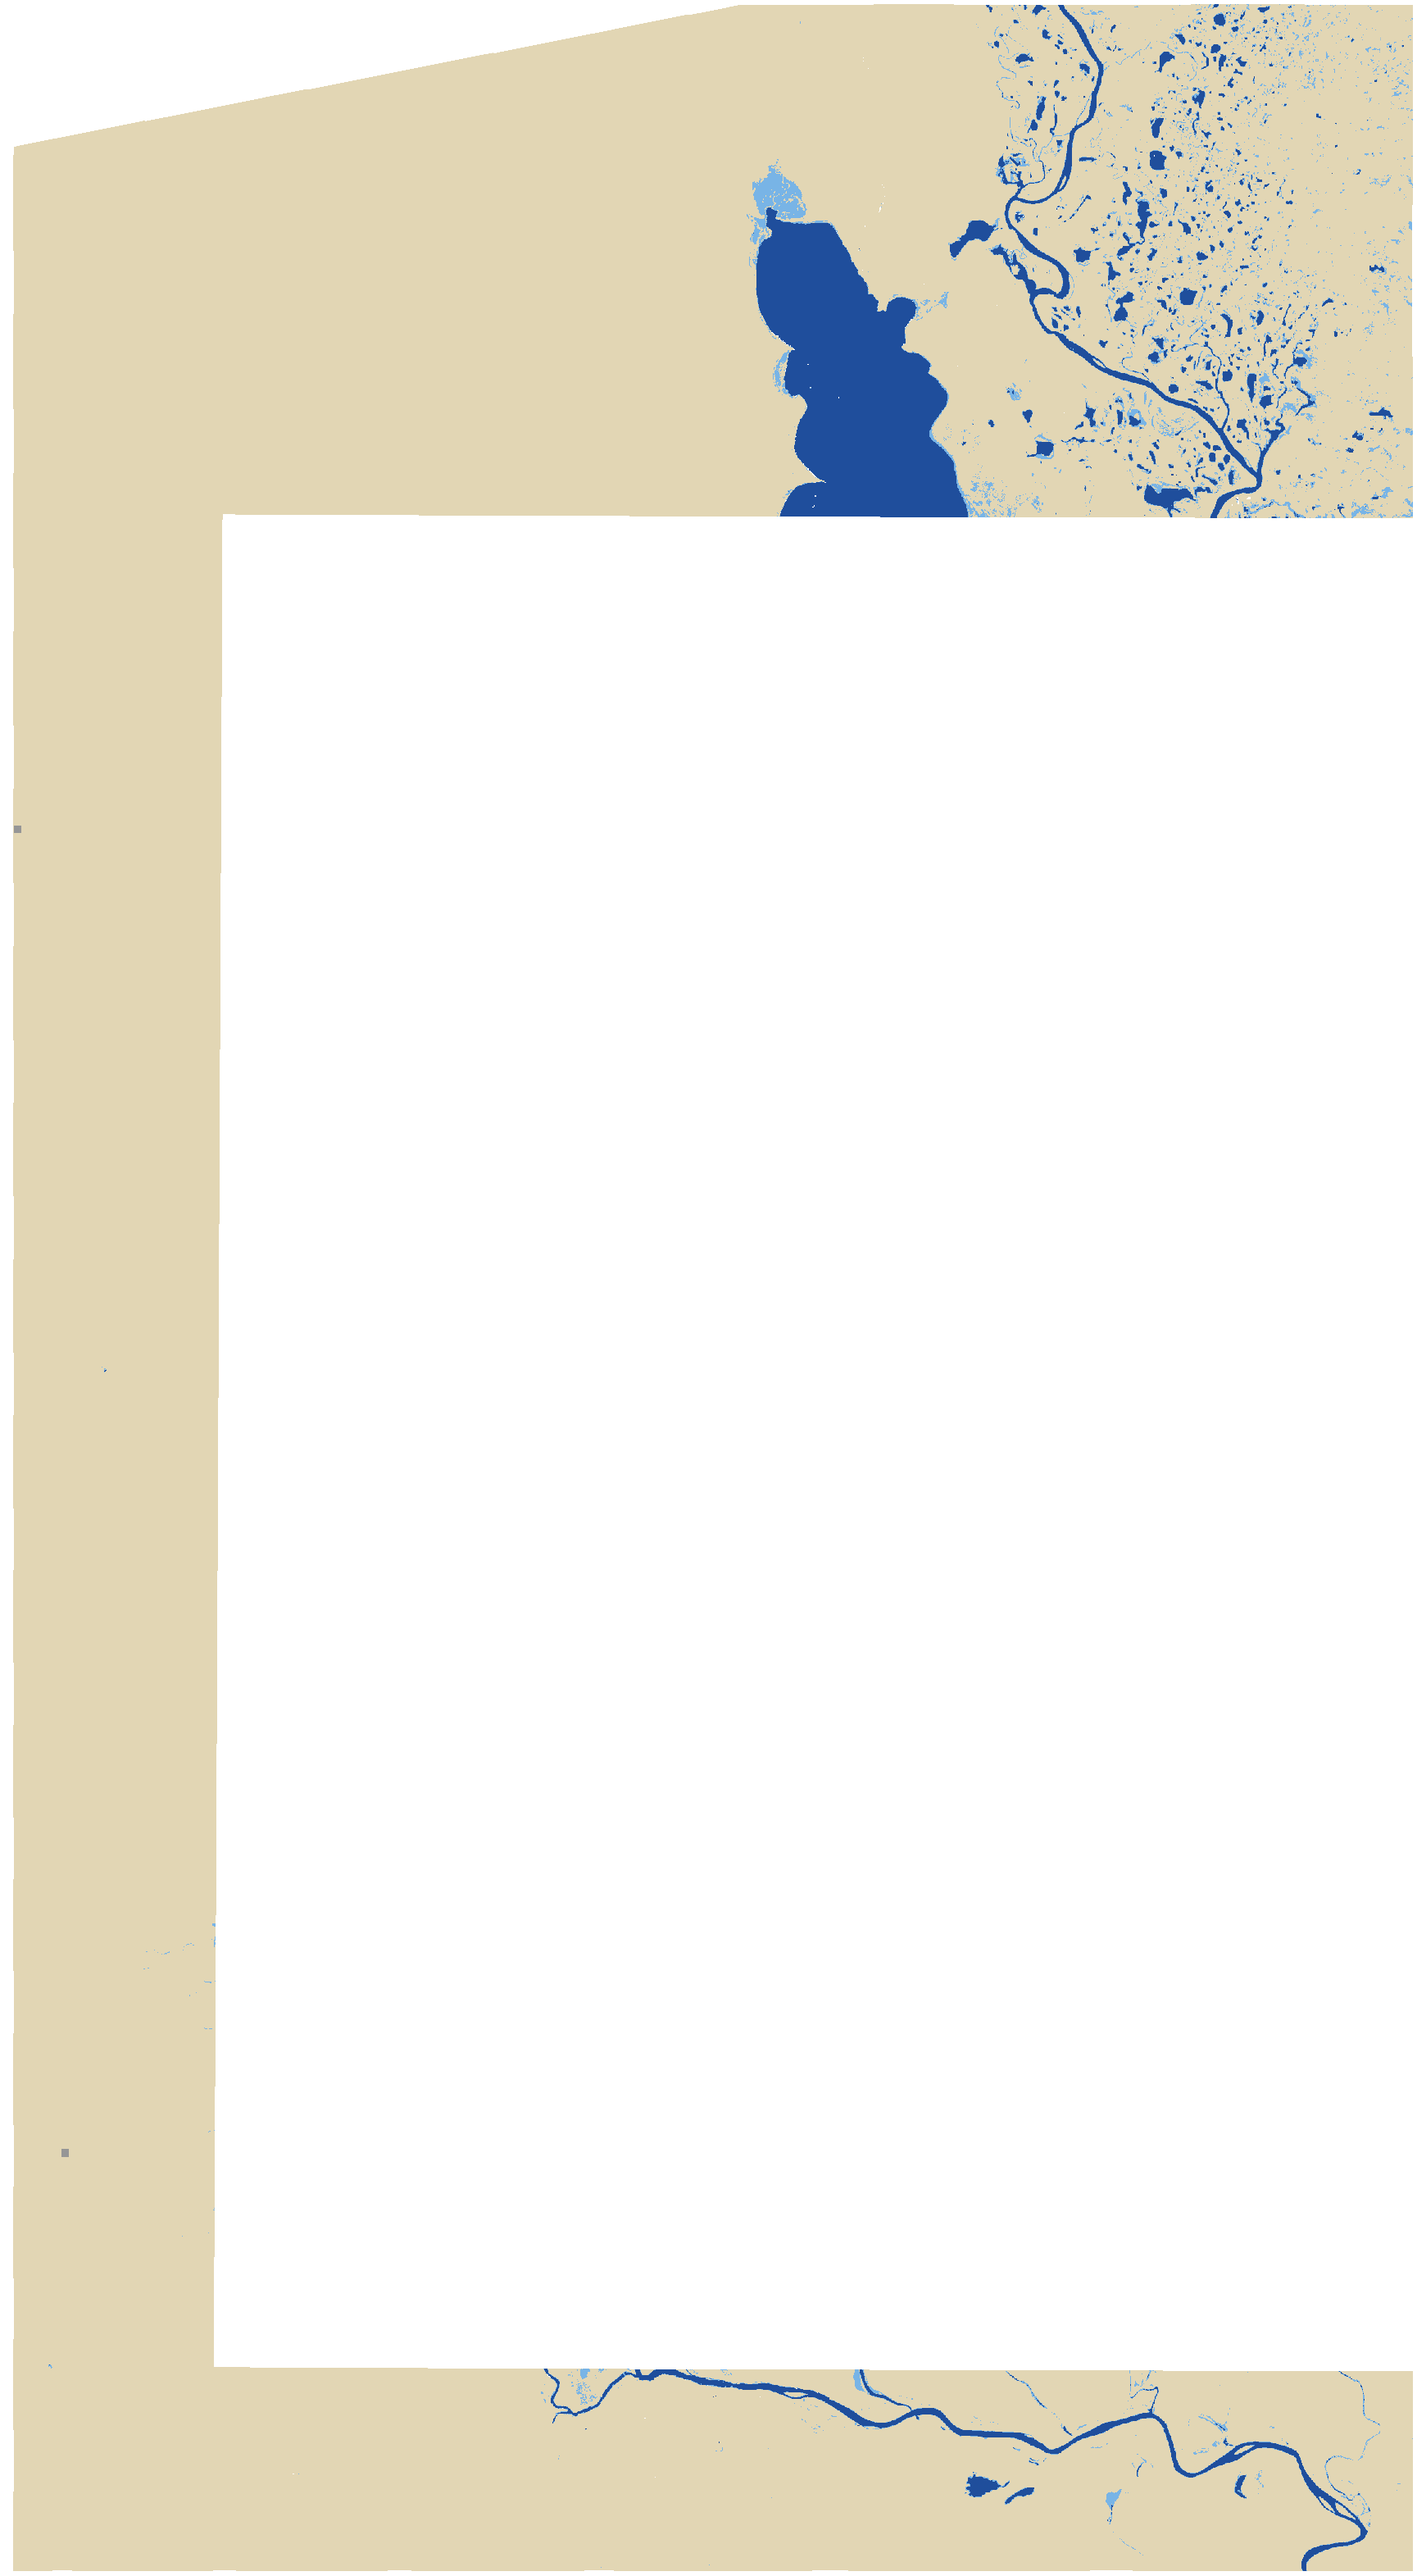
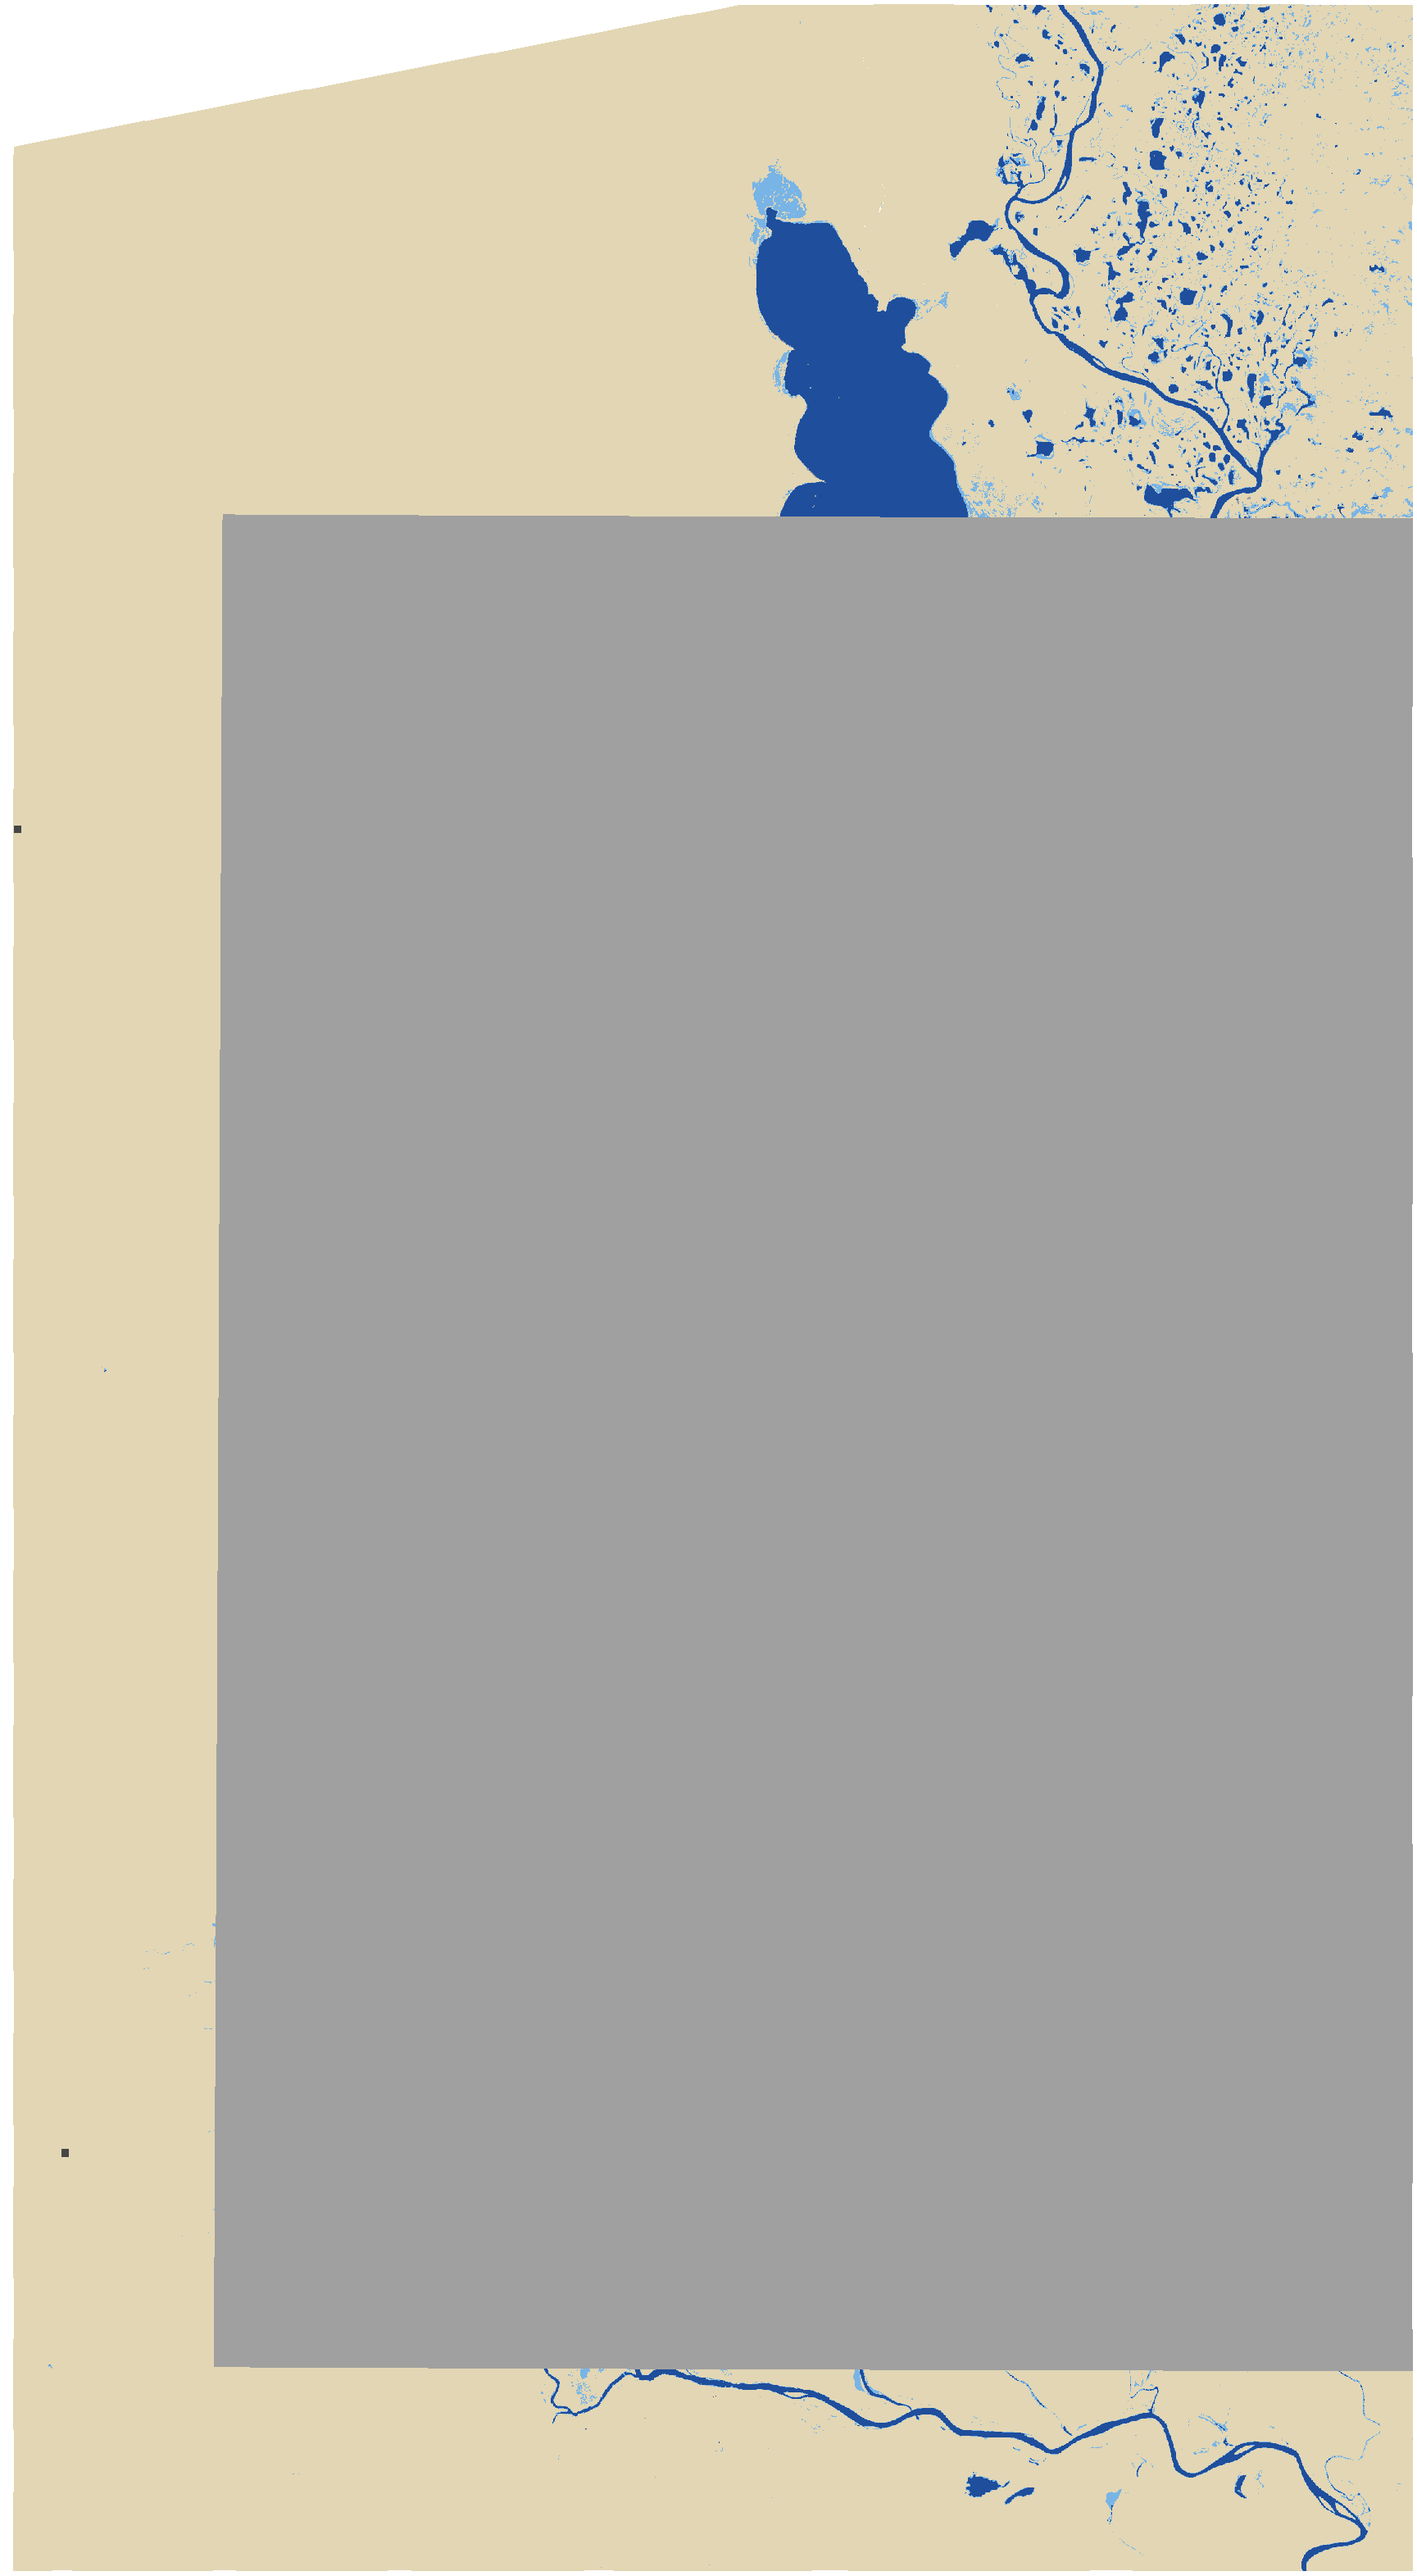
Coverage on one floodplain mask; no cloud/fire claims; pages concurrency

diff --git a/web/index.html b/web/index.html
@@ -83,10 +83,10 @@
 </section>
 
 <section>
-  <h2>Radar sees what optics cannot</h2>
+  <h2 id="sepTitle">Full coverage on a fixed schedule</h2>
   <p class="lead" id="cloudLead">Drag the handle. Left: NISAR radar. Right: OPERA DSWx-HLS optical water map.</p>
   <div class="controls">
-    <label><input type="radio" name="sw" value="sep" checked> Fire season: radar 3 Sep vs optical 2 Sep</label>
+    <label><input type="radio" name="sw" value="sep" checked> Radar 3 Sep vs optical 2 Sep</label>
     <label><input type="radio" name="sw" value="ba"> Radar: 17 Jul vs 21 Oct</label>
   </div>
   <div class="swipe-wrap">
@@ -137,8 +137,8 @@ const LEG = {
   change: [["#00c8ff","open water both dates"],["#ff7f00","open water lost"],["#ff00c8","open water gained"],
            ["rgba(255,255,255,.5)","analysed, no open water"]],
   composite: [["#ff0000","HH"],["#00ff00","HV"],["#0000ff","HH − HV"]],
-  dswx: [["#e2d6b4","not water"],["#1f4e9c","open water"],["#78b4e6","partial surface water"],["#969696","cloud — optical blind"],
-         ["rgba(255,255,255,.85)","not imaged by the optical satellite that day"]],
+  dswx: [["#e2d6b4","not water"],["#1f4e9c","open water"],["#78b4e6","partial surface water"],
+         ["#a0a0a0","not imaged by the optical satellite that day"]],
   hvgrey: [["#000","water (smooth, dark)"],["#fff","land / vegetation (bright)"]],
 };
 function legend(el, key){
@@ -177,6 +177,9 @@ const dmy = s => new Date(s+"T12:00:00Z").toLocaleDateString("en-GB",{day:"numer
 Promise.all([fetch("data/data.json").then(r=>r.json()), fetch("data/layers.json").then(r=>r.json())])
 .then(([D, LY]) => {
   const M = D.metrics;
+  $("#sepTitle").textContent = "Full coverage on a fixed schedule";
+  const REST = (M.sep_cloud_pct ?? 0) < 1 ? "the rest was not imaged that day"
+             : `${M.sep_not_acquired_pct}% not imaged that day, ${M.sep_cloud_pct}% cloud or shadow`;
   // ---------- cards
   const cards = [
     [`${fmt(M.precision[0])}–${fmt(M.precision[1])}`, "precision of NISAR open water",
@@ -185,8 +188,8 @@ Promise.all([fetch("data/data.json").then(r=>r.json()), fetch("data/layers.json"
      `River channel and permanent lagoons held their extent while Ladário fell from ${M.stage_first} to ${M.stage_last} cm (r = ${fmt(M.r_open)}).`],
     [`${M.op_first} → ${M.op_last} km²`, "shallow, vegetated water declined",
      `Open + partial water (DSWx) tracks the river: r = ${fmt(M.r_open_partial)}, p = ${fmt(M.p_open_partial,3)}. The water that left is mostly shallow, vegetated water.`],
-    [`${M.sep_clear_pct}% vs 100%`, "usable floodplain, optical vs radar",
-     `On ${dmy(D.sep_dswx)} optics had a usable view of only ${M.sep_clear_pct}% of the floodplain (${M.sep_cloud_pct}% cloud or shadow, ${M.sep_not_acquired_pct}% not imaged that day); NISAR (${dmy(D.sep_nisar)}) saw all of it.`],
+    [`${M.nisar_min_pct >= 100 ? "100%" : "≥" + M.nisar_min_pct + "%"} every 12 days`, "full coverage on a fixed schedule",
+     `NISAR imaged ${M.nisar_min_pct >= 100 ? "the whole floodplain" : "at least " + M.nisar_min_pct + "% of the floodplain"} on all ${M.nisar_n_dates} dates; on ${dmy(D.sep_dswx)} the optical product covered ${M.sep_clear_cov_pct}% (${REST}).`],
   ];
   $("#cards").innerHTML = cards.map(([k,t,p]) => `<div class="card"><div class="k">${k}</div><div class="t">${t}</div><p>${p}</p></div>`).join("");
 
@@ -231,8 +234,9 @@ Promise.all([fetch("data/data.json").then(r=>r.json()), fetch("data/layers.json"
       const tmp = document.createElement("div"); legend(tmp, "hvgrey");
       $("#leg2").innerHTML = "<span><b>Left:</b></span>" + tmp.innerHTML;
       legend(tmp, "dswx");
+      if ((M.sep_cloud_pct ?? 0) > 0) tmp.insertAdjacentHTML("beforeend", '<span><span class="sw" style="background:#464646"></span>cloud / shadow</span>');
       $("#leg2").insertAdjacentHTML("beforeend", "<span style='margin-left:12px'><b>Right:</b></span>" + tmp.innerHTML);
-      $("#cloudLead").textContent = `On ${dmy(D.sep_dswx)}, in the fire season, optical sensors had a usable view of only ${M.sep_clear_pct}% of the floodplain: ${M.sep_cloud_pct}% was under cloud or shadow and ${M.sep_not_acquired_pct}% was not imaged that day. NISAR, one day later, imaged all of it. Drag the handle.`;
+      $("#cloudLead").textContent = `On ${dmy(D.sep_dswx)} the optical product covered ${M.sep_clear_cov_pct}% of the floodplain (${REST}). NISAR imaged ${M.nisar_sep_pct}% of it on ${dmy(D.sep_nisar)}, on its fixed 12-day schedule. Drag the handle.`;
     } else {
       l = "composite_" + D.before.replaceAll("-",""); r = "composite_" + D.after.replaceAll("-","");
       tl = `NISAR · ${dmy(D.before)}`; tr = `NISAR · ${dmy(D.after)}`;

diff --git a/scripts/03_export_web.py b/scripts/03_export_web.py
@@ -109,20 +109,34 @@ def main():
     w = dswx.mosaic(sorted(glob.glob(str(ROOT / f"data/raw/opera_dswx/*_{SEP_D}T*_B01_WTR.tif"))), grid)
     hh3, _, _, _ = load(SEP_N)
     foot = np.isfinite(hh3)
-    # optical coverage on the analysed floodplain: clear / cloud-shadow / not acquired (fill)
+    # ONE floodplain mask for both sensors: masks (non-urban, <=135 m) inside the study area
+    # (study area = pixels valid in at least one NISAR date)
+    any_valid = np.zeros(hh3.shape, bool)
+    nisar_cov = {}
+    gfiles = sorted(glob.glob(str(proc / "gcov_*_40m_db.tif")))
+    stacks = {}
+    for f in gfiles:
+        with rasterio.open(f) as r:
+            stacks[Path(f).name.split("_")[1]] = np.isfinite(r.read(2))
+            any_valid |= stacks[Path(f).name.split("_")[1]]
     with rasterio.open(proc / "masks_40m.tif") as m:
-        plain = (m.read(1) == 0) & (m.read(2) == 0) & np.isfinite(m.read(3)) & foot
+        plain = (m.read(1) == 0) & (m.read(2) == 0) & np.isfinite(m.read(3)) & any_valid
     n = plain.sum()
+    for d, v in stacks.items():
+        nisar_cov[d] = 100 * (v & plain).sum() / n
     cov = dict(date=SEP_D, clear_pct=100 * np.isin(w[plain], (0, 1, 2)).sum() / n,
                cloud_pct=100 * np.isin(w[plain], (252, 253)).sum() / n,
-               not_acquired_pct=100 * np.isin(w[plain], (254, 255)).sum() / n)
+               not_acquired_pct=100 * np.isin(w[plain], (254, 255)).sum() / n,
+               nisar_sep_pct=nisar_cov[SEP_N], nisar_min_pct=min(nisar_cov.values()),
+               nisar_max_pct=max(nisar_cov.values()), nisar_n_dates=len(nisar_cov))
+    print("      NISAR coverage of floodplain by date: " + " ".join(f"{d[4:]}:{v:.0f}%" for d, v in nisar_cov.items()))
     pd.DataFrame([cov]).to_csv(ROOT / "outputs/tables/sep_optical_coverage.csv", index=False, float_format="%.1f")
     print(f"      DSWx {SEP_D} on floodplain: clear {cov['clear_pct']:.0f}% | cloud/shadow {cov['cloud_pct']:.0f}% | "
-          f"not acquired that day {cov['not_acquired_pct']:.0f}%")
+          f"not acquired that day {cov['not_acquired_pct']:.0f}% | NISAR {SEP_N}: {cov['nisar_sep_pct']:.0f}%")
     w[~foot] = 0                                  # outside NISAR footprint -> transparent (code 0 handled below)
     rgba = palette_rgba(w, {0: (226, 214, 180, 255), 1: (31, 78, 156, 255), 2: (120, 180, 230, 255),
-                            253: (150, 150, 150, 255), 252: (150, 150, 150, 255),
-                            255: (255, 255, 255, 200), 254: (255, 255, 255, 200)})
+                            253: (70, 70, 70, 255), 252: (70, 70, 70, 255),
+                            255: (160, 160, 160, 255), 254: (160, 160, 160, 255)})
     rgba[~foot] = 0
     save(f"dswx_{SEP_D}", rgba, tr, crs, layers)
 
@@ -205,6 +219,9 @@ def main():
             "cloudy_nisar_date": ymd(cloudy["nisar_date"]),
             "sep_clear_pct": round(float(agr.loc[agr["dswx_date"] == SEP_D, "clear_pct"].iloc[0])),
             "sep_cloud_pct": round(cov["cloud_pct"]), "sep_not_acquired_pct": round(cov["not_acquired_pct"]),
+            "sep_clear_cov_pct": round(cov["clear_pct"]),
+            "nisar_sep_pct": round(cov["nisar_sep_pct"]), "nisar_min_pct": round(cov["nisar_min_pct"]),
+            "nisar_n_dates": int(cov["nisar_n_dates"]),
         },
         "before": ymd(BEFORE), "after": ymd(AFTER), "sep_nisar": ymd(SEP_N), "sep_dswx": ymd(SEP_D),
         "aoi_bounds": aoi_bounds, "gauge": gauge,

diff --git a/scripts/update_readme_results.py b/scripts/update_readme_results.py
@@ -23,6 +23,21 @@ def fmt_range(s, nd=2):
     return f"{s.min():.{nd}f}–{s.max():.{nd}f}"
 
 
+def sep_sentence(cloudy):
+    """Same sentence as the web card: coverage on a fixed schedule (no fire/smoke/cloud claims)."""
+    f = T / "sep_optical_coverage.csv"
+    if not f.exists():
+        return ""
+    c = pd.read_csv(f).iloc[0]
+    d = str(int(c["date"]))
+    day = f"{int(d[6:])} {['Jan','Feb','Mar','Apr','May','Jun','Jul','Aug','Sep','Oct','Nov','Dec'][int(d[4:6]) - 1]}"
+    nis = "the whole floodplain" if c["nisar_min_pct"] >= 99.5 else f"at least {c['nisar_min_pct']:.0f}% of the floodplain"
+    rest = "the rest was not imaged that day" if c["cloud_pct"] < 1 else \
+        f"{c['not_acquired_pct']:.0f}% not imaged that day, {c['cloud_pct']:.0f}% cloud or shadow"
+    return (f"**Full coverage on a fixed schedule.** NISAR imaged {nis} on all {int(c['nisar_n_dates'])} dates, "
+            f"every 12 days; on {day} the optical product covered {c['clear_pct']:.0f}% ({rest}).")
+
+
 def main():
     agr = pd.read_csv(T / "dswx_agreement_all_pairs.csv", dtype={"nisar_date": str, "dswx_date": str})
     ser = pd.read_csv(T / "dswx_comparison.csv", dtype={"nisar_date": str, "dswx_date": str})
@@ -105,14 +120,7 @@ def main():
                   "and 10 August falls on DSWx partial water of 19 July, so submerged-vegetation emergence does not "
                   "explain the drop either.)", ""]
     lines += [
-        f"**Radar sees what optics cannot in the fire season.** On {cloudy['dswx_date'][:4]}-{cloudy['dswx_date'][4:6]}-"
-        f"{cloudy['dswx_date'][6:]} only {cloudy['clear_pct']:.0f}% of the floodplain was usable in DSWx-HLS"
-        + (lambda c: f" ({c['cloud_pct']:.0f}% cloud or shadow, likely including smoke; {c['not_acquired_pct']:.0f}% "
-                     "not imaged by the optical satellite that day)"
-                     if c is not None and str(int(c["date"])) == str(cloudy["dswx_date"]) else "")(
-            pd.read_csv(T / "sep_optical_coverage.csv").iloc[0] if (T / "sep_optical_coverage.csv").exists() else None)
-        + f"; the NISAR acquisition of {cloudy['nisar_date'][:4]}-{cloudy['nisar_date'][4:6]}-{cloudy['nisar_date'][6:]} "
-        "covered 100% of it.",
+        sep_sentence(cloudy),
         "",
         "**Caveats.** Seven to eight dates, consecutive and not independent: p-values are indicative. NISAR products "
         "are provisional (CRID P05023). Thresholds adapted from Evans et al. 2010 (PALSAR sigma0, converted to gamma0) "

diff --git a/README.md b/README.md
@@ -100,7 +100,7 @@ Study area: Paraguay River floodplain, Corumbá–Ladário to Mandioré lagoon. 
 
 **4. Can NISAR alone see the receding shallow water?** Not with backscatter alone (pre-registered test failed): a classifier on HH, HV and HH−HV trained on DSWx-HLS labels of 23 Aug reached a mean partial-water F1 of 0.25 on other dates (target ≥ 0.5) and its partial-water series gave r = 0.01 with Ladário (target ≥ 0.7). Next steps: texture, coherence (GUNW) and multi-date features.
 
-**Radar sees what optics cannot in the fire season.** On 2026-09-02 only 25% of the floodplain was usable in DSWx-HLS (0% cloud or shadow, likely including smoke; 73% not imaged by the optical satellite that day); the NISAR acquisition of 2026-09-03 covered 100% of it.
+**Full coverage on a fixed schedule.** NISAR imaged at least 97% of the floodplain on all 8 dates, every 12 days; on 2 Sep the optical product covered 28% (the rest was not imaged that day).
 
 **Caveats.** Seven to eight dates, consecutive and not independent: p-values are indicative. NISAR products are provisional (CRID P05023). Thresholds adapted from Evans et al. 2010 (PALSAR sigma0, converted to gamma0) and were checked, not tuned, against the JRC permanent-water zone. The Copernicus DEM is a surface model.
 
